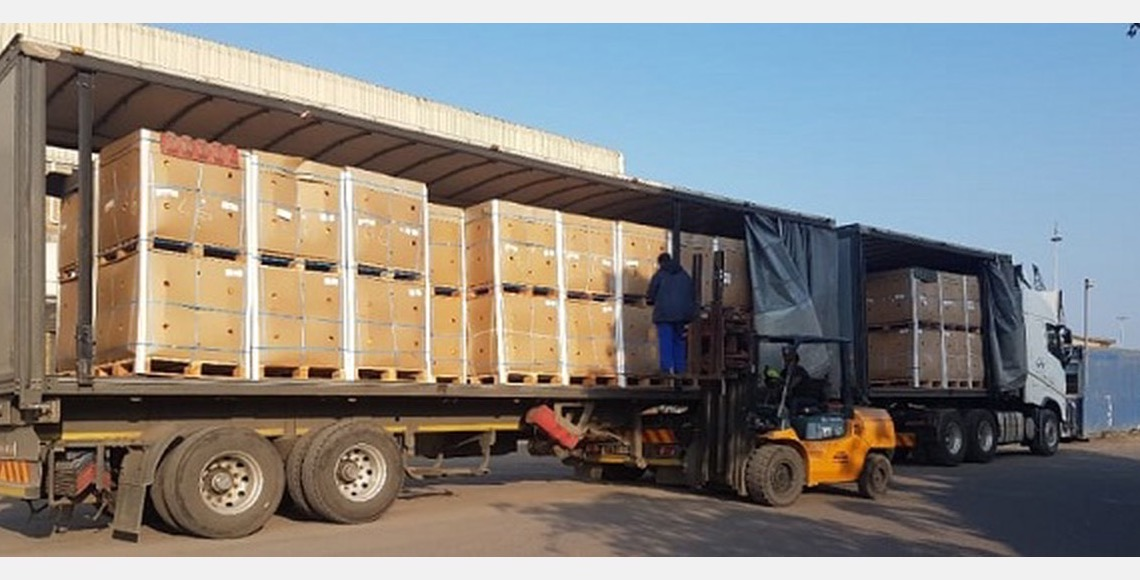
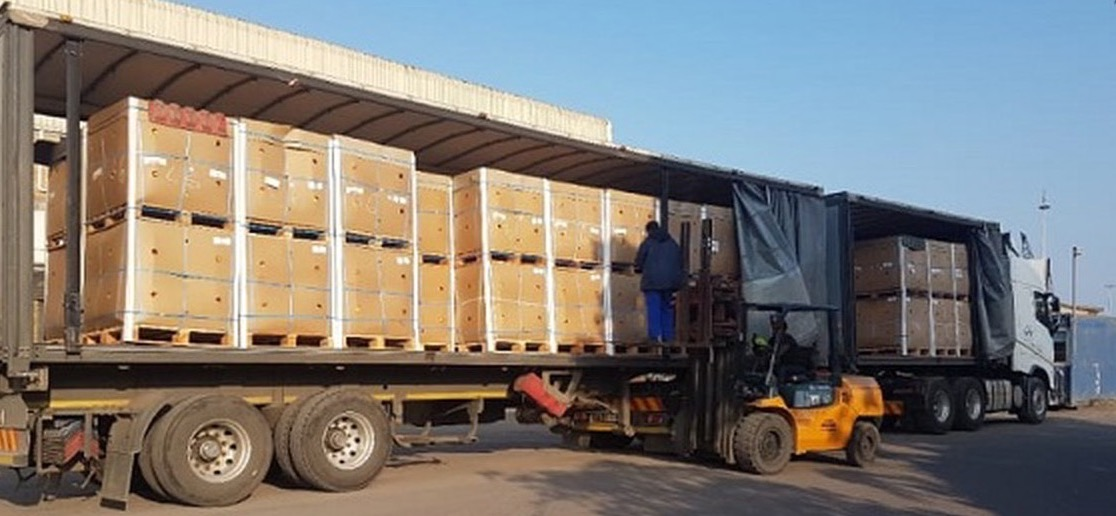
Initial commit

diff --git a/app/(site)/sectors/[slug]/page.tsx b/app/(site)/sectors/[slug]/page.tsx
@@ -119,7 +119,6 @@ export default async function SectorPage({ params }: { params: Promise<Params> }
             {others.map(s => (
               <Link href={`/sectors/${s.slug}`} className="sector-card reveal" key={s.slug} style={{ minHeight: 360 }}>
                 <img src={s.image} alt="" loading="lazy" />
-                <span className="tag">{s.direction}</span>
                 <h3 className="sector-card__title">{s.name}</h3>
                 <p className="sector-card__text">{s.short}</p>
               </Link>

diff --git a/app/(site)/sectors/page.tsx b/app/(site)/sectors/page.tsx
@@ -38,7 +38,6 @@ export default function SectorsPage() {
                 style={{ ['--delay' as string]: `${(i % 3) * 0.08}s` }}
               >
                 <img src={s.image} alt="" loading="lazy" />
-                <span className="tag">{s.direction}</span>
                 <h2 className="sector-card__title">{s.name}</h2>
                 <p className="sector-card__text">{s.summary}</p>
                 <span className="sector-card__more">

diff --git a/app/(site)/page.tsx b/app/(site)/page.tsx
@@ -132,7 +132,6 @@ export default function HomePage() {
                 style={{ ['--delay' as string]: `${(i % 3) * 0.08}s` }}
               >
                 <img src={s.image} alt="" loading="lazy" />
-                <span className="tag">{s.direction}</span>
                 <h3 className="sector-card__title">{s.name}</h3>
                 <p className="sector-card__text">{s.short}</p>
                 <span className="sector-card__more">
